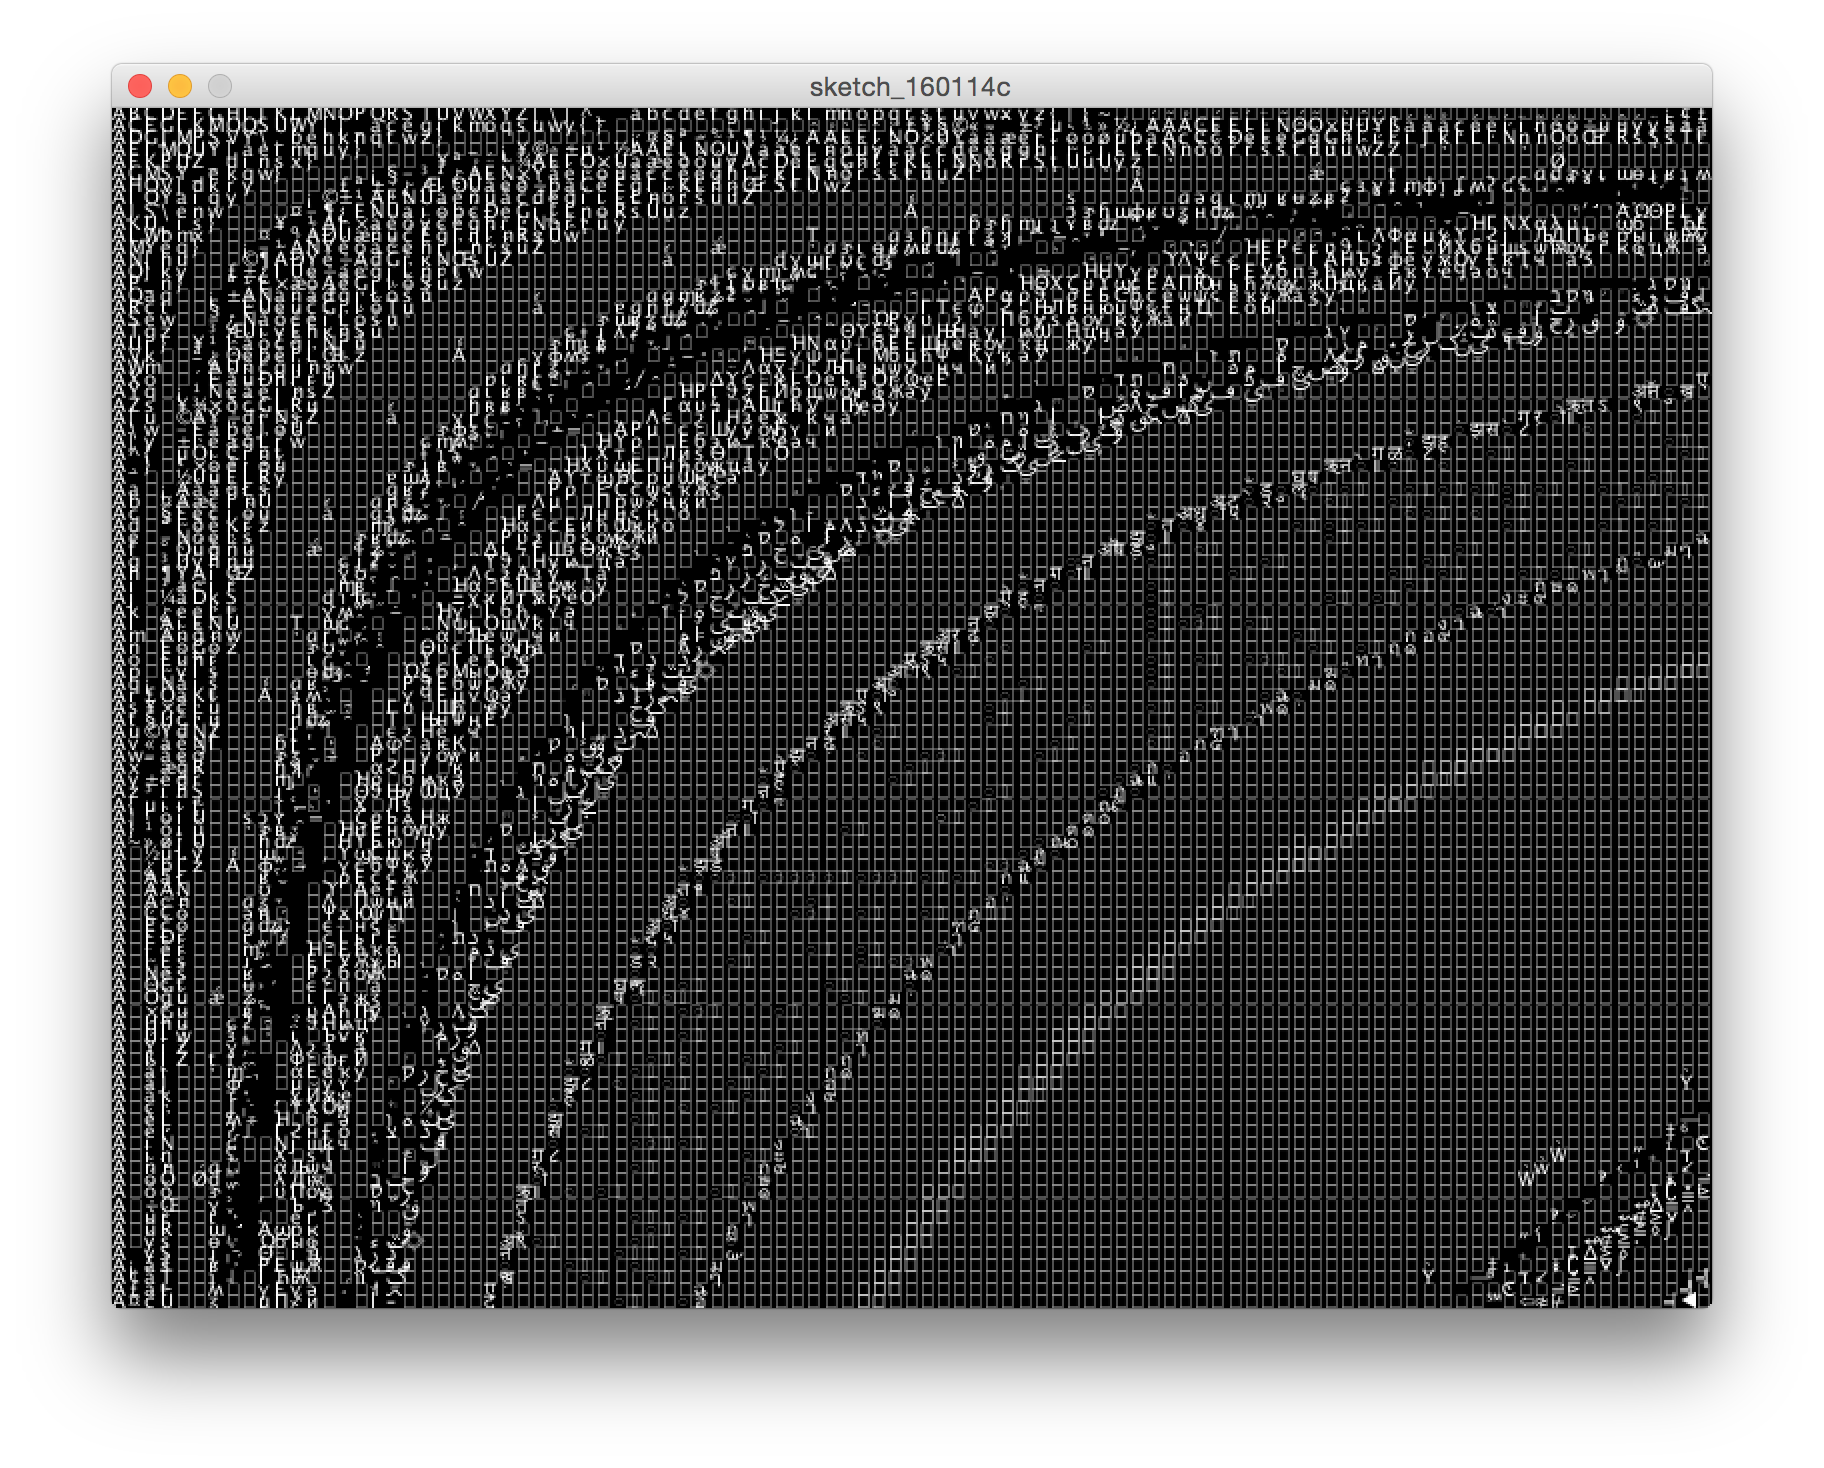
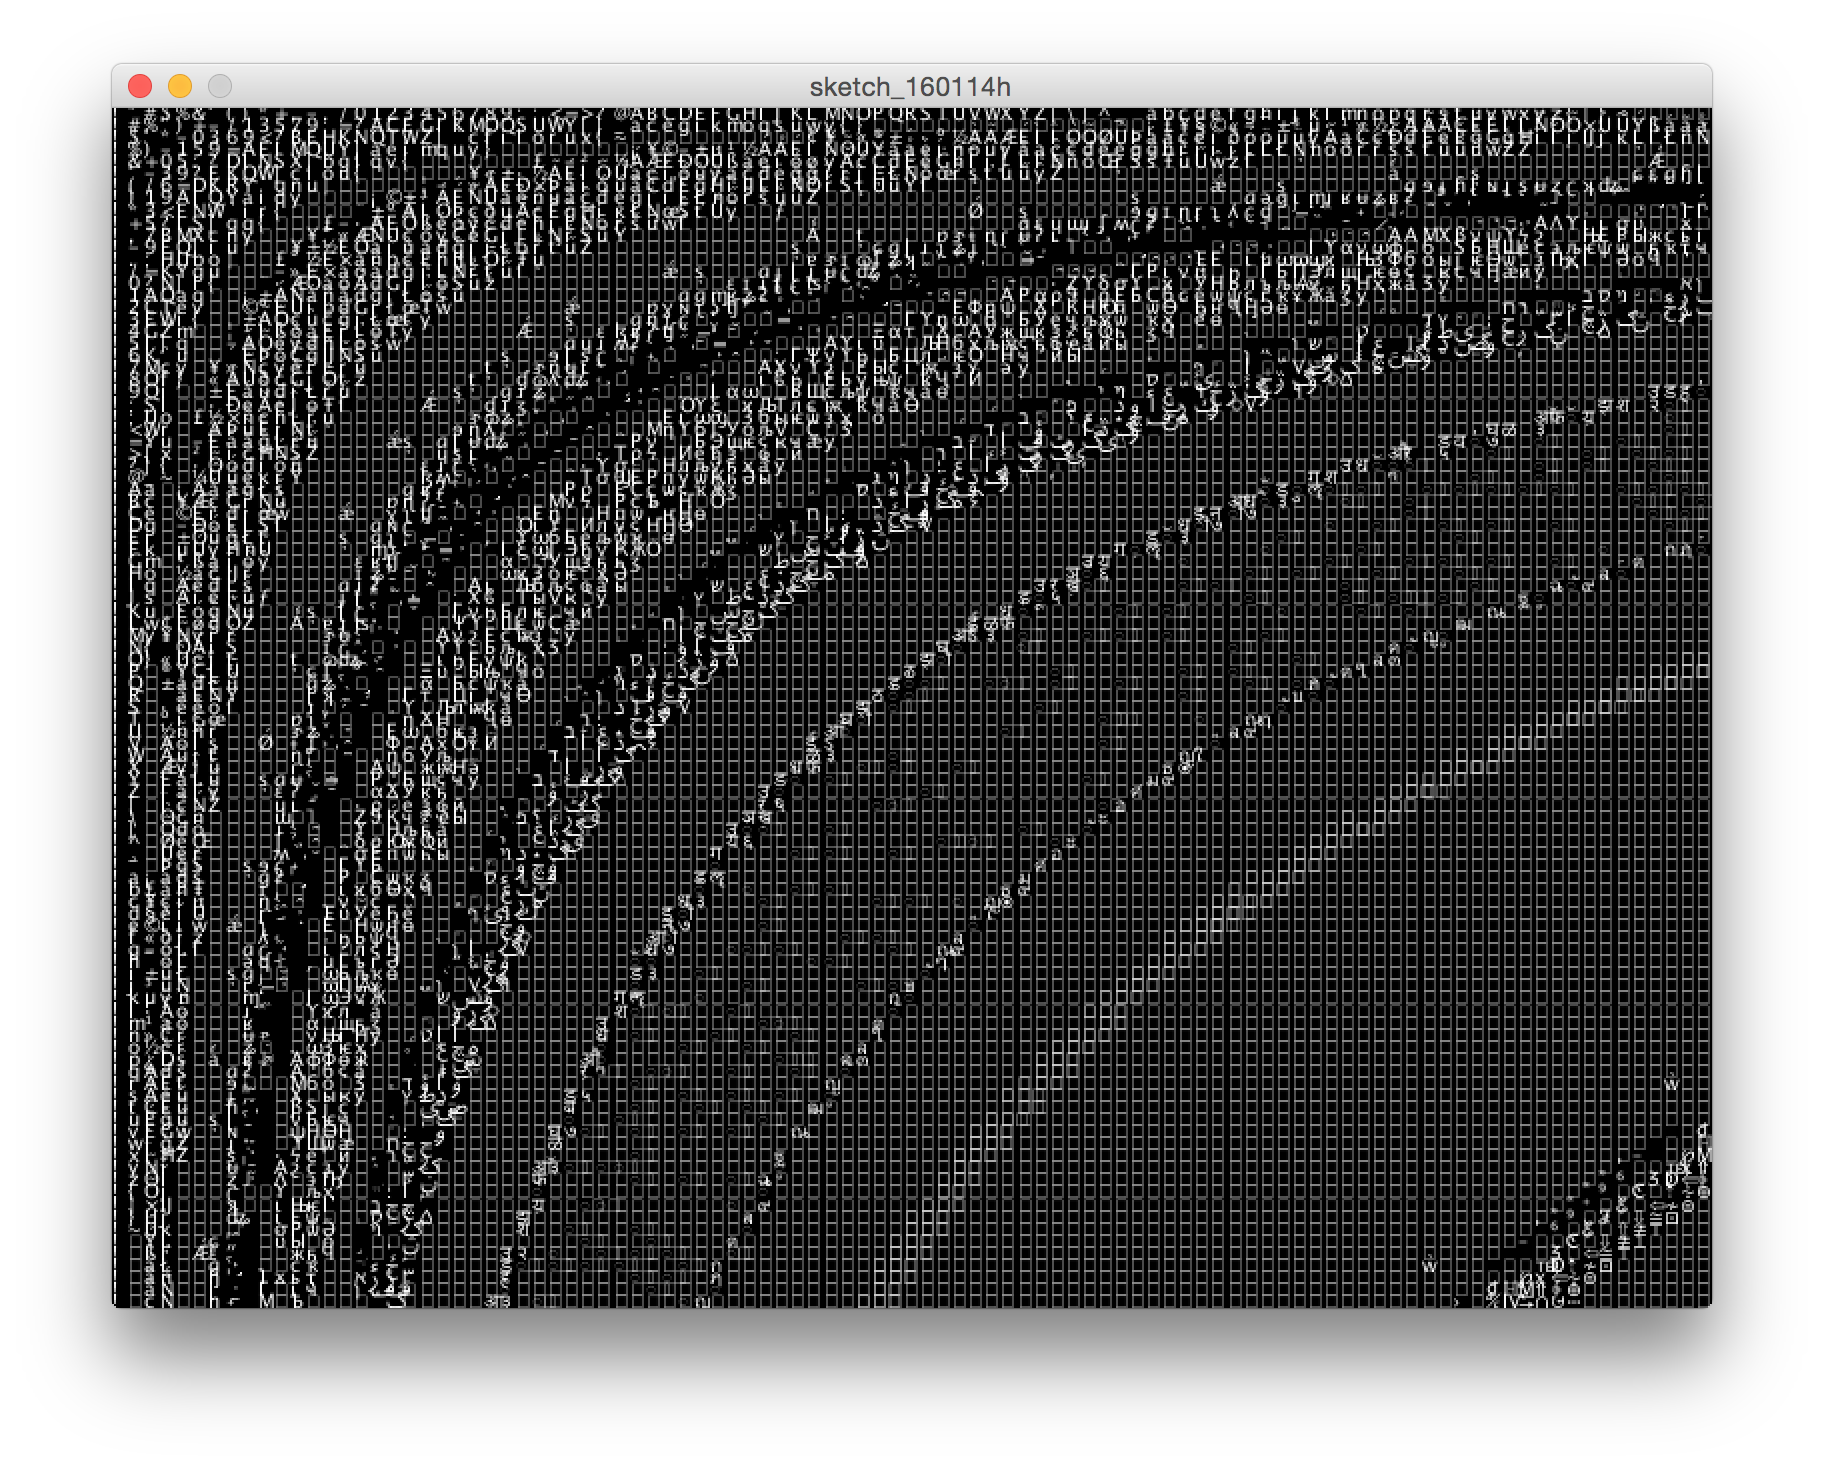
fixed screenshots

diff --git a/udk160114/README.md b/udk160114/README.md
@@ -73,7 +73,9 @@ Ndef(\ascii).stop;
 graphics
 --
 
-open sketch_160114a etc in processing.
+open sketches sketch_160114a to sketch_160114j in processing.
+
+![ascii0.png](ascii0.png?raw=true "ascii0.png")
 
 ![ascii1.png](ascii1.png?raw=true "ascii1.png")
 
